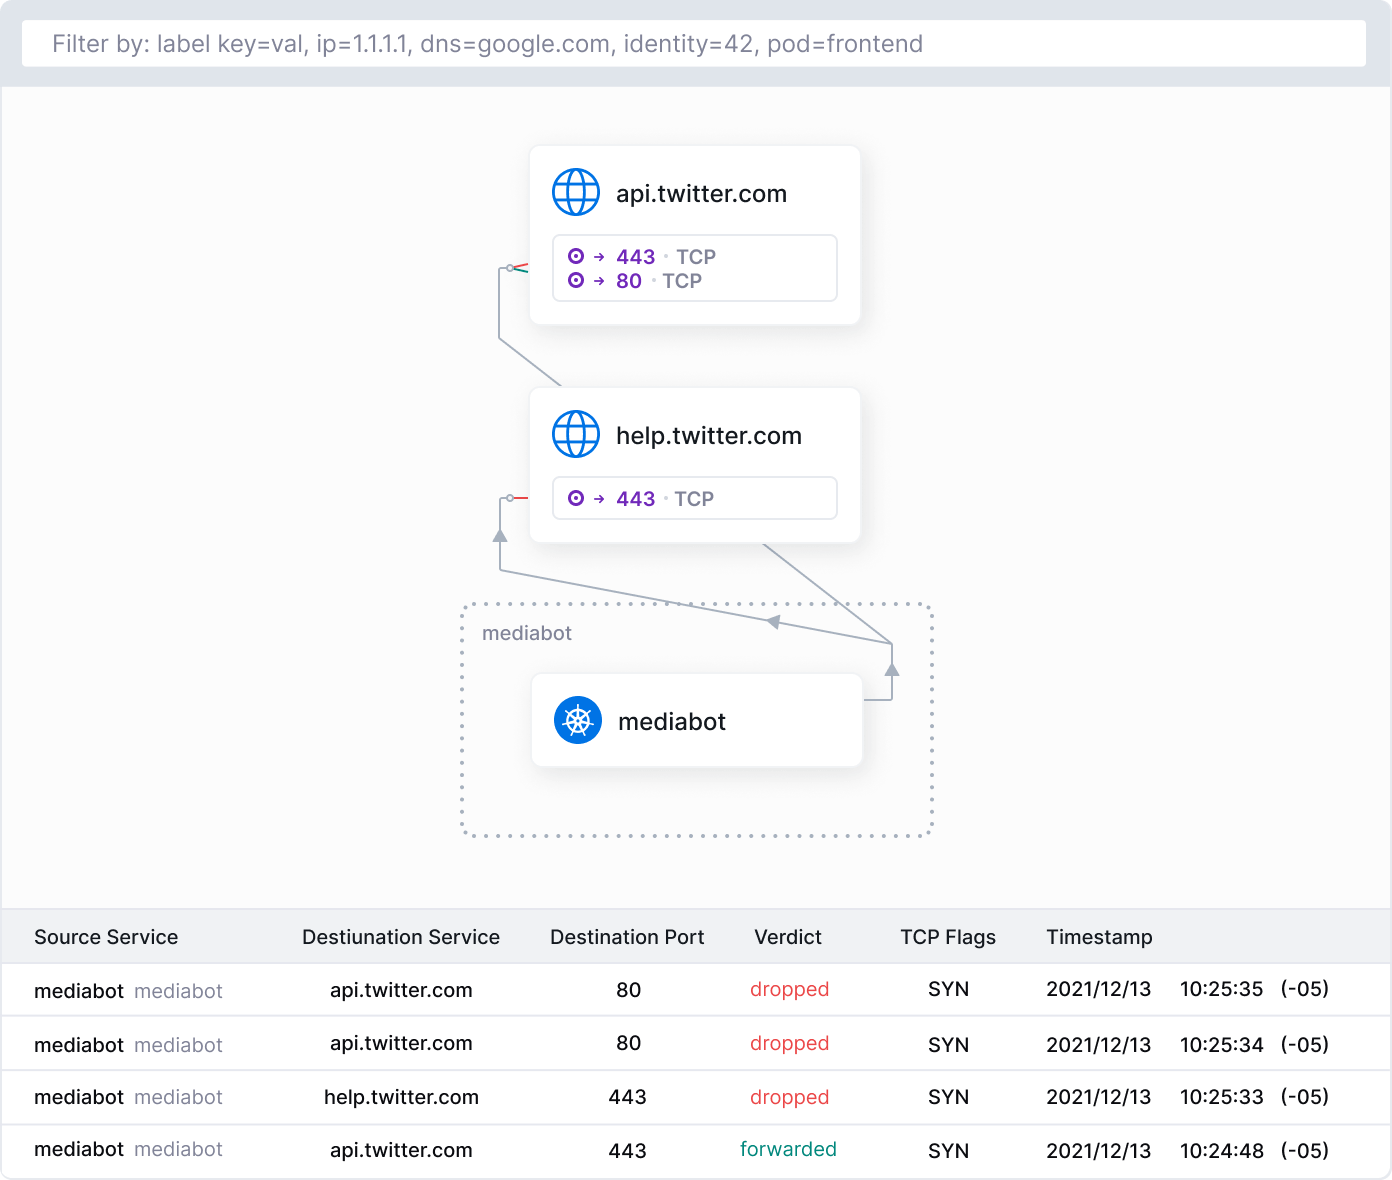
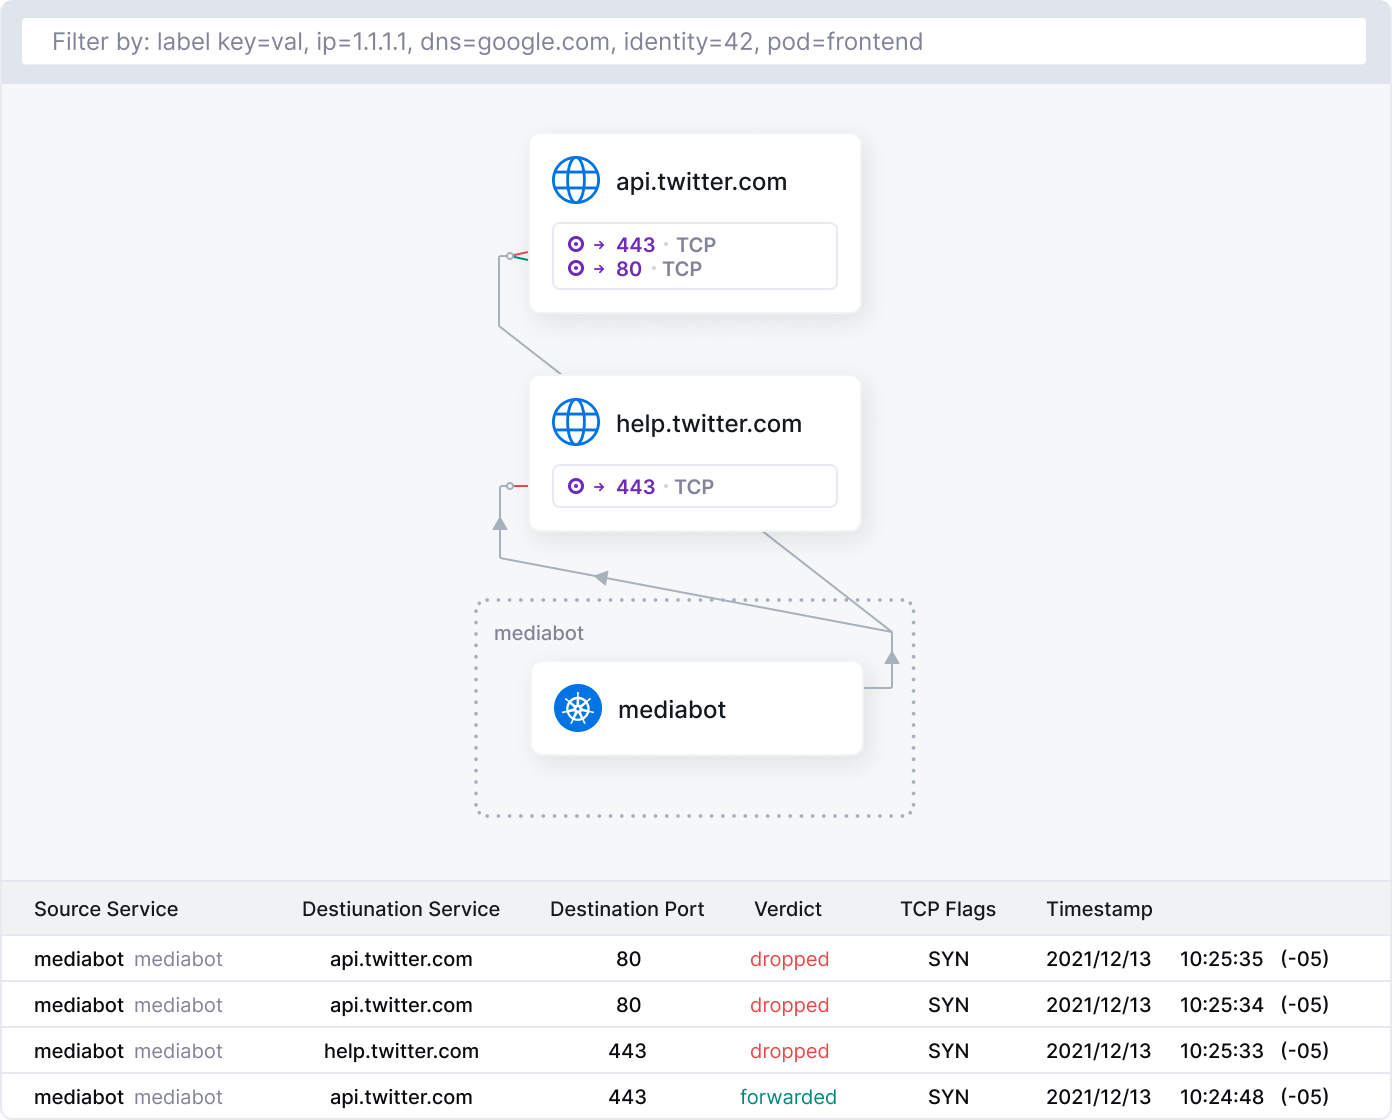
feat: fixes images

diff --git a/src/components/pages/use-cases/feature-section/feature-section.jsx b/src/components/pages/use-cases/feature-section/feature-section.jsx
@@ -26,7 +26,7 @@ const FeatureSection = ({
     >
       <div
         className={classNames(
-          'col-span-full lg:col-span-5',
+          'col-span-full lg:col-span-5 flex flex-col justify-center',
           !imageRight ? 'lg:col-start-8' : 'lg:col-start-1'
         )}
       >
